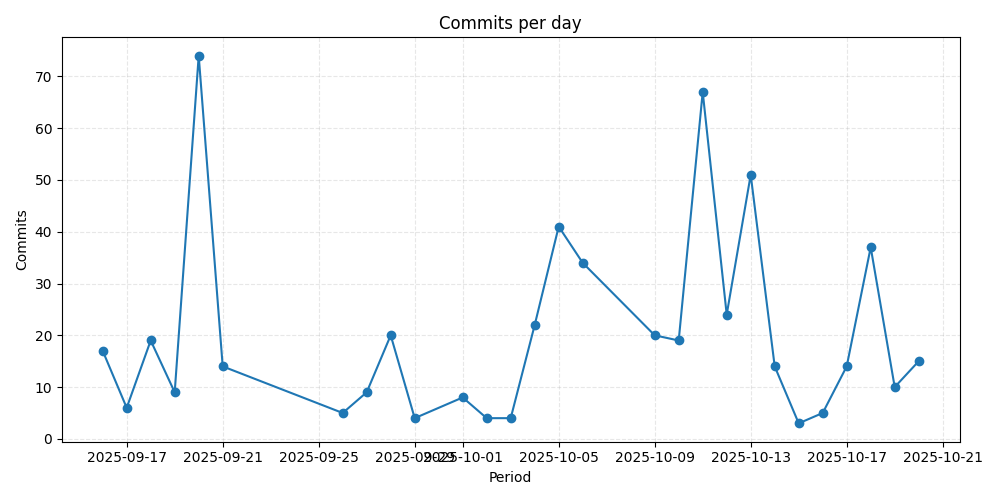
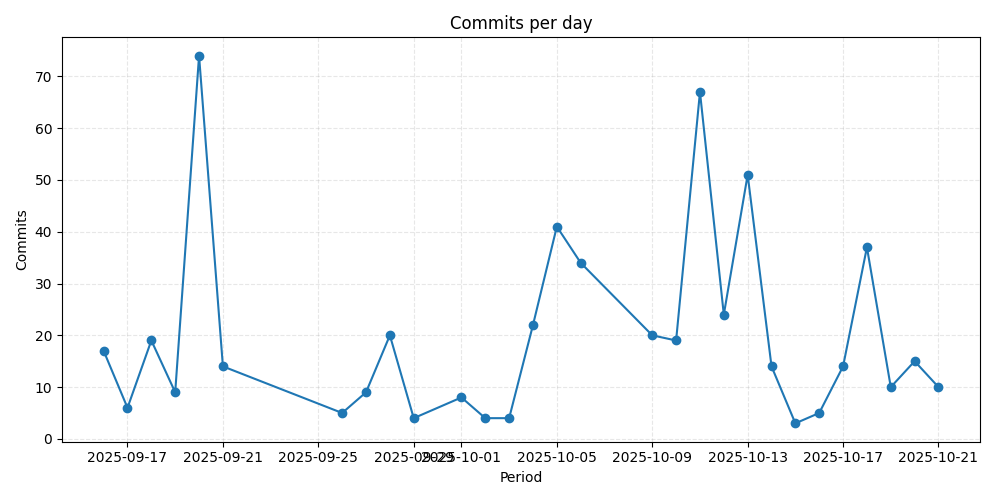
chore: refresh repository metrics

diff --git a/www/metrics/metrics.html b/www/metrics/metrics.html
@@ -6,7 +6,7 @@
 </head>
 <body>
 <h1>Repository metrics for <code>dsainz3/gate-hub</code></h1>
-<p><em>Generated 2025-10-21T06:19:18.577196+00:00Z</em></p>
+<p><em>Generated 2025-10-22T06:20:02.354621+00:00Z</em></p>
 <h2>Highlights</h2>
 <table>
 <thead>
@@ -20,9 +20,9 @@
 <tbody>
 <tr>
 <td>Commits</td>
-<td style="text-align: right;">1 (-94.7%)</td>
-<td style="text-align: right;">91 (-51.6%)</td>
-<td style="text-align: right;">442 (+248.0%)</td>
+<td style="text-align: right;">1 (-90.9%)</td>
+<td style="text-align: right;">91 (-54.0%)</td>
+<td style="text-align: right;">440 (+216.5%)</td>
 </tr>
 </tbody>
 </table>
@@ -35,7 +35,7 @@
 <ul>
 <li>Median time to merge: <code>0.00</code> days</li>
 <li>Average files changed per PR: <code>0.0</code></li>
-<li>Lines added vs deleted: <code>+745,727</code> / <code>-460,474</code></li>
+<li>Lines added vs deleted: <code>+747,505</code> / <code>-460,525</code></li>
 </ul>
 </body>
 </html>

diff --git a/www/metrics/summary.html b/www/metrics/summary.html
@@ -13,7 +13,7 @@
   </head>
   <body>
     <table>
-      <tr><th>Daily commits</th><td>1 (-94.7%)</td></tr><tr><th>Weekly commits</th><td>91 (-51.6%)</td></tr><tr><th>Monthly commits</th><td>442 (+248.0%)</td></tr><tr><th>Median PR merge time</th><td>0.00 days</td></tr>
+      <tr><th>Daily commits</th><td>1 (-90.9%)</td></tr><tr><th>Weekly commits</th><td>91 (-54.0%)</td></tr><tr><th>Monthly commits</th><td>440 (+216.5%)</td></tr><tr><th>Median PR merge time</th><td>0.00 days</td></tr>
     </table>
   </body>
 </html>

diff --git a/www/metrics/metrics.md b/www/metrics/metrics.md
@@ -1,12 +1,12 @@
 # Repository metrics for `dsainz3/gate-hub`
 
-_Generated 2025-10-21T06:19:18.577196+00:00Z_
+_Generated 2025-10-22T06:20:02.354621+00:00Z_
 
 ## Highlights
 
 | Metric | Daily | Weekly | Monthly |
 | --- | ---: | ---: | ---: |
-| Commits | 1 (-94.7%) | 91 (-51.6%) | 442 (+248.0%) |
+| Commits | 1 (-90.9%) | 91 (-54.0%) | 440 (+216.5%) |
 
 ## Charts
 
@@ -22,4 +22,4 @@ _Generated 2025-10-21T06:19:18.577196+00:00Z_
 
 * Median time to merge: `0.00` days
 * Average files changed per PR: `0.0`
-* Lines added vs deleted: `+745,727` / `-460,474`
+* Lines added vs deleted: `+747,505` / `-460,525`

diff --git a/README.md b/README.md
@@ -15,11 +15,11 @@
 
 <!-- METRICS:START -->
 ## Repository health snapshot
-_Updated 2025-10-21T06:19:18.577196+00:00Z_
+_Updated 2025-10-22T06:20:02.354621+00:00Z_
 
-- Daily commits: **1** (-94.7%)
-- Weekly commits: **91** (-51.6%)
-- Monthly commits: **442** (+248.0%)
+- Daily commits: **1** (-90.9%)
+- Weekly commits: **91** (-54.0%)
+- Monthly commits: **440** (+216.5%)
 - Median PR merge time: **0.00 days**
 <!-- METRICS:END -->
 
